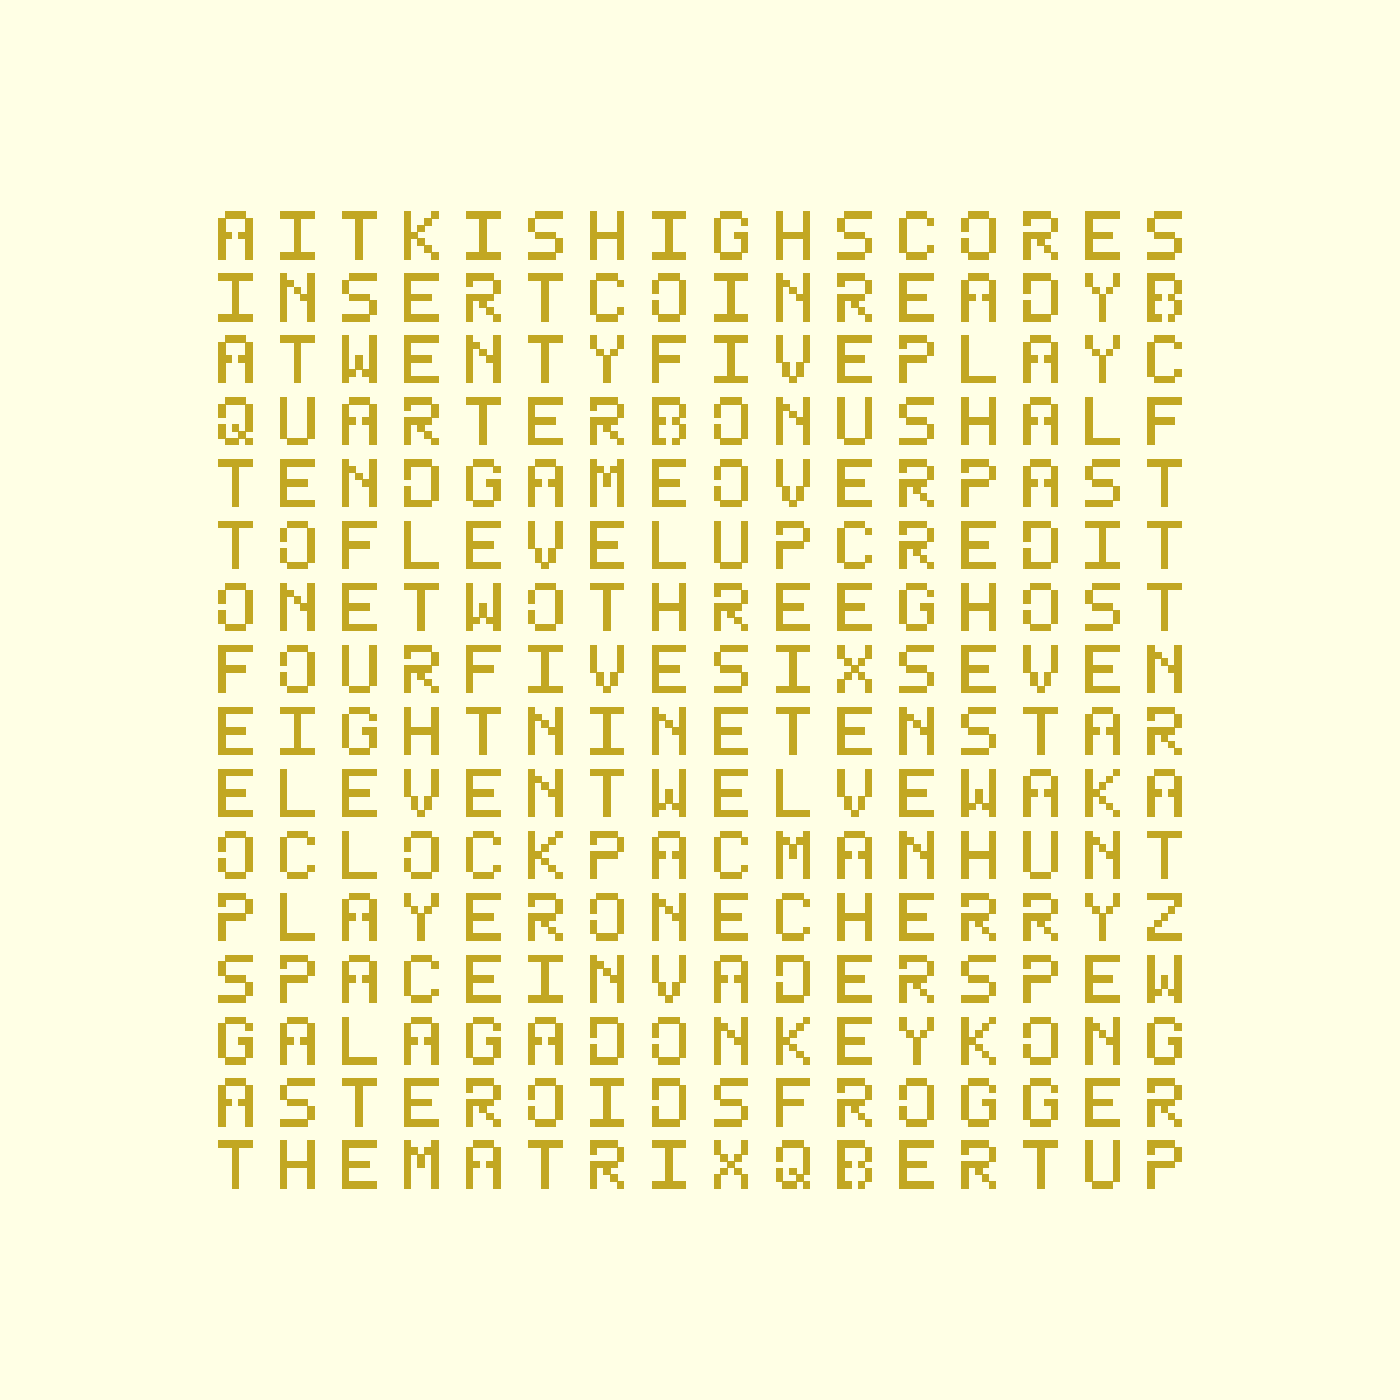
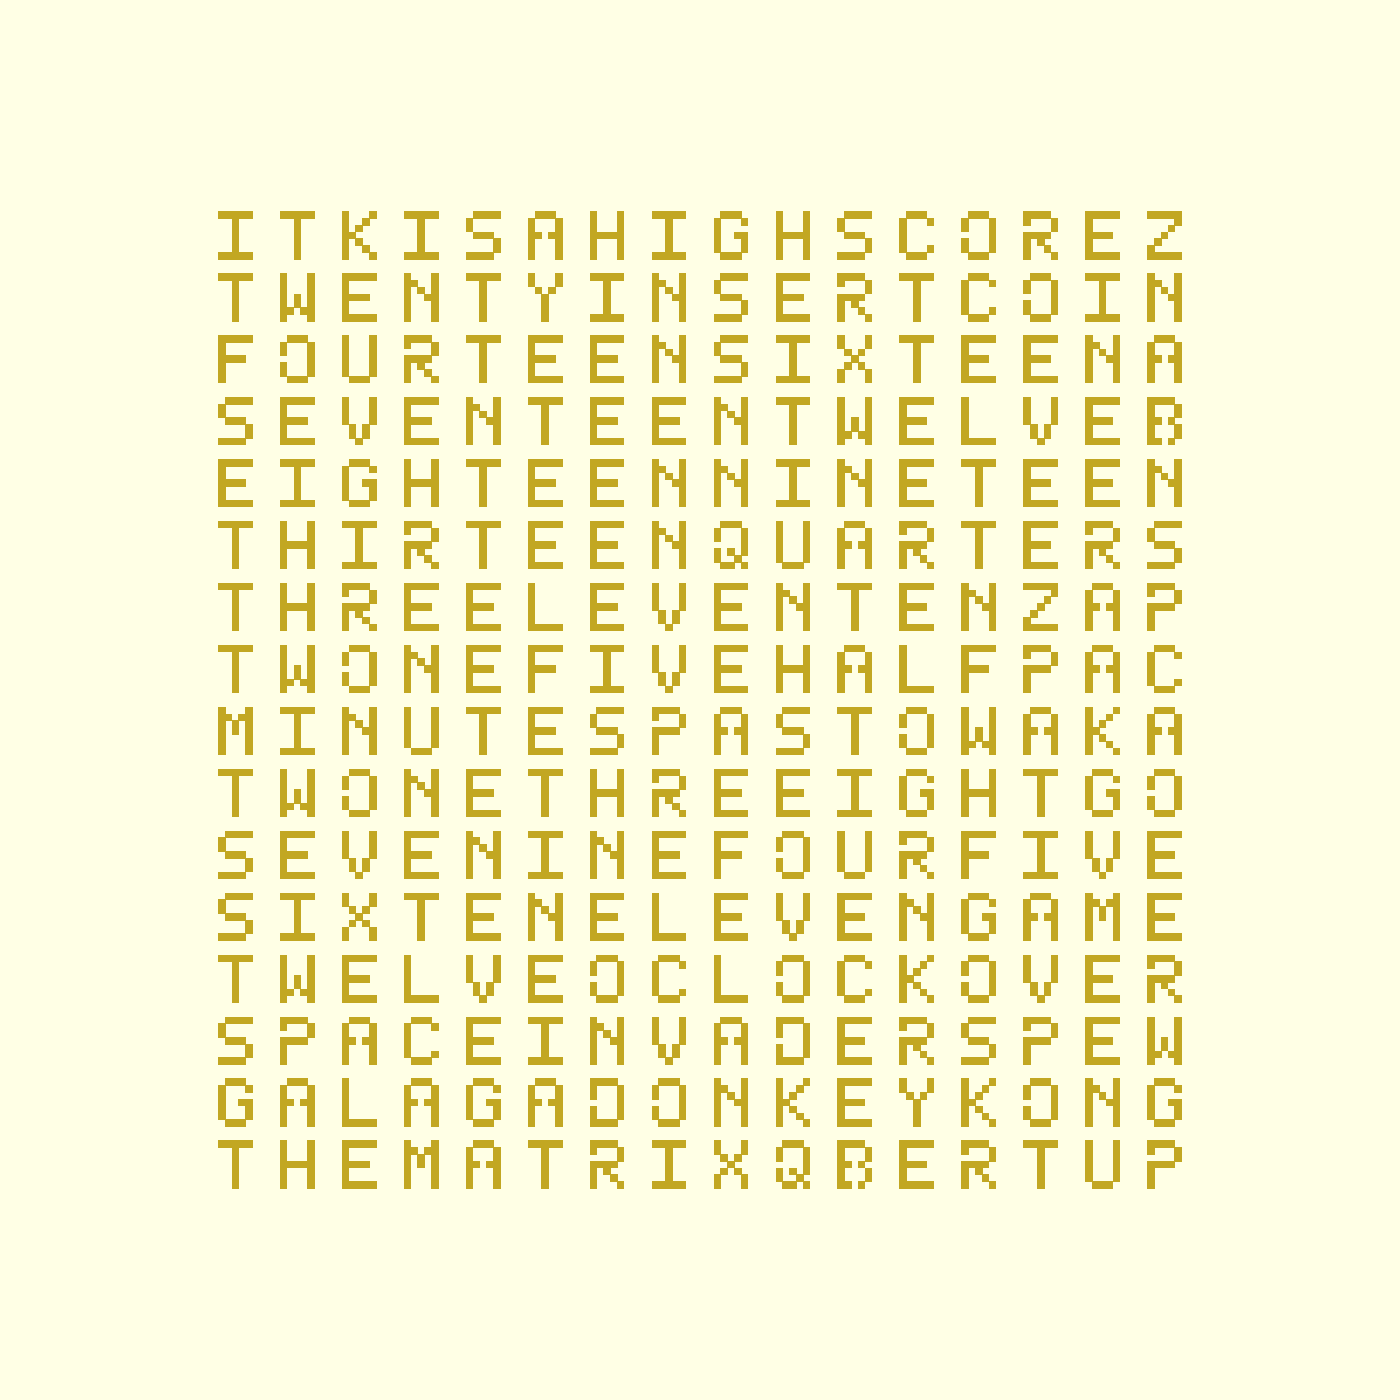
Per-minute word resolution — grid redesign
IT IS TWENTY THREE MINUTES PAST FOUR, exact to the minute; corner
minute pixels no longer needed. Fits 16x16 via letter-sharing
(FOURTEEN>FOUR, TWONE=TWO+ONE, THREELEVEN, THREEIGHT, SEVENINE,
PASTO, MINUTE<MINUTES). Keeps HIGH SCORE, INSERT COIN, SPACE
INVADERS, GALAGA, DONKEY KONG, THE MATRIX, QBERT + stacked
GAME/OVER; drops ASTEROIDS, FROGGER, PLAYER ONE.

diff --git a/README.md b/README.md
@@ -1,7 +1,8 @@
 # TIME INVADERS — arcade word clock
 
 A 16×16 word clock with an 8-bit arcade heart: the time reads as words
-(`IT IS TWENTY FIVE PAST TEN`), but time changes are game events —
+to the exact minute (`IT IS TWENTY THREE MINUTES PAST FOUR`), but time
+changes are game events —
 Pac-Man eats the old time, Matrix rain resolves into the new one — and
 the filler letters hide arcade words (INSERT COIN, GAME OVER, HIGH
 SCORE, PLAYER ONE, plus a bottom-rows hall of fame ending in THE
@@ -76,30 +77,40 @@ The font is a purpose-made 5×7 pixel stencil face (`font.scad`):
 letters with enclosed counters (A B D O P Q R) carry a bridge, so no
 first-layer island of plate material sits loose on the bed.
 
-## The letter grid
+## The letter grid (per-minute)
 
 ```
-A IT K IS HIGHSCORE S        time words     hidden arcade words
-INSERTCOIN READY B           ─────────      ──────────────────
-A TWENTY FIVE PLAY C         IT IS          HIGH SCORE, READY
-QUARTER BONUS HALF           TWENTY FIVE    INSERT COIN, PLAY
-TEN D GAMEOVER PAST          QUARTER HALF   BONUS, GAME OVER
-TO F LEVELUP CREDIT          TEN PAST TO    LEVEL UP, CREDIT
-ONE TWO THREE GHOST          ONE..TWELVE    GHOST, STAR, WAKA
-FOUR FIVE SIX SEVEN          OCLOCK         PACMAN, HUNT, CHERRY
-EIGHT NINE TEN STAR                         PLAYER ONE
-ELEVEN TWELVE WAKA                          SPACE INVADERS, PEW
-OCLOCK PACMAN HUNT                          GALAGA, DONKEY KONG
-PLAYERONE CHERRY Z                          ASTEROIDS, FROGGER
-SPACEINVADERS PEW                           THE MATRIX, QBERT, UP
+IT K IS A HIGHSCORE Z         rows 0-8: minute words
+TWENTY INSERTCOIN             rows 9-12: hour words + OCLOCK
+FOURTEEN SIXTEEN A            rows 13-15: arcade hall of fame
+SEVENTEEN TWELVE B
+EIGHTEEN NINETEEN             hidden arcade words:
+THIRTEEN QUARTER S            HIGH SCORE, INSERT COIN, ZAP,
+THREELEVEN TEN ZAP            PAC, WAKA, GO, GAME/OVER
+TWONE FIVE HALF PAC           (stacked), SPACE INVADERS, PEW,
+MINUTES PASTO WAKA            GALAGA, DONKEY KONG,
+TWONE THREEIGHT GO            THE MATRIX, QBERT, UP
+SEVENINE FOUR FIVE
+SIX TEN ELEVEN GAME
+TWELVE OCLOCK OVER
+SPACEINVADERS PEW
 GALAGA DONKEYKONG
-ASTEROIDS FROGGER
 THEMATRIX QBERT UP
 ```
 
-Time resolves to 5 minutes; the four corner LEDs add +1..+4 minutes
-(QLOCKTWO style). The stand's front lip is deliberately low (13 mm) so
-the bottom hall-of-fame row stays visible above it.
+Per-minute wording fits 16×16 through letter-sharing: FOURTEEN,
+SIXTEEN, SEVENTEEN, EIGHTEEN, NINETEEN carry FOUR, SIX, SEVEN, EIGHT,
+NINE as prefixes; TWONE = TWO+ONE, THREELEVEN = THREE+ELEVEN,
+THREEIGHT = THREE+EIGHT, SEVENINE = SEVEN+NINE, PASTO = PAST+TO, and
+MINUTE is a prefix of MINUTES. Grammar: `ONE MINUTE`, `A QUARTER` /
+`HALF` (no MINUTES), 21–29 = TWENTY + unit, and past 30 minutes it
+counts down TO the next hour. The stand's front lip is deliberately
+low (13 mm) so the bottom hall-of-fame row stays visible above it.
+
+Since words now change every minute, firmware should run the big
+game transitions on 5-minute boundaries (configurable) and a quick
+crossfade on ordinary minute ticks — Pac-Man every 60 s would wear
+thin fast.
 
 ## Enclosure stack (front → back)
 
